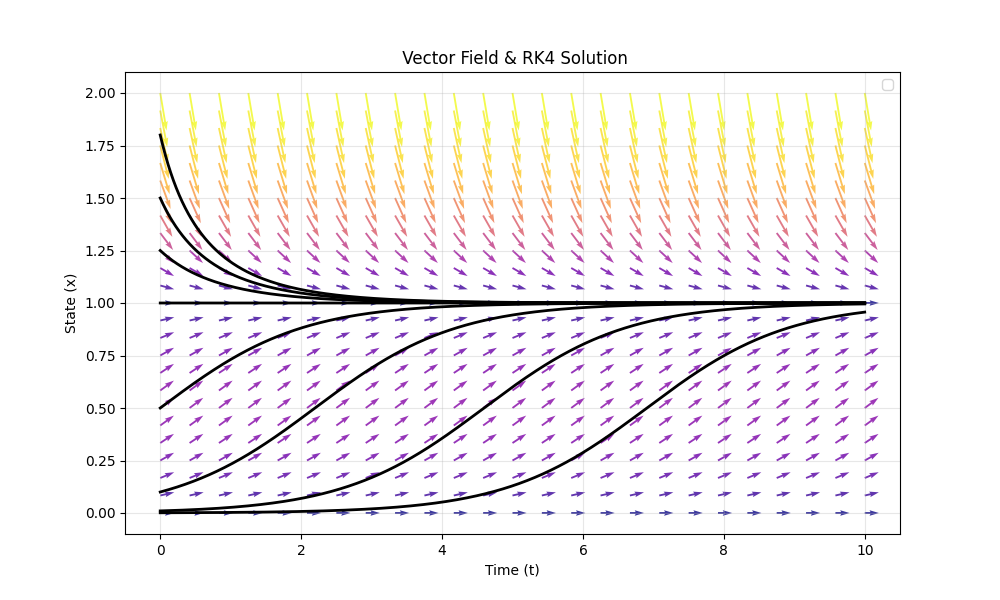
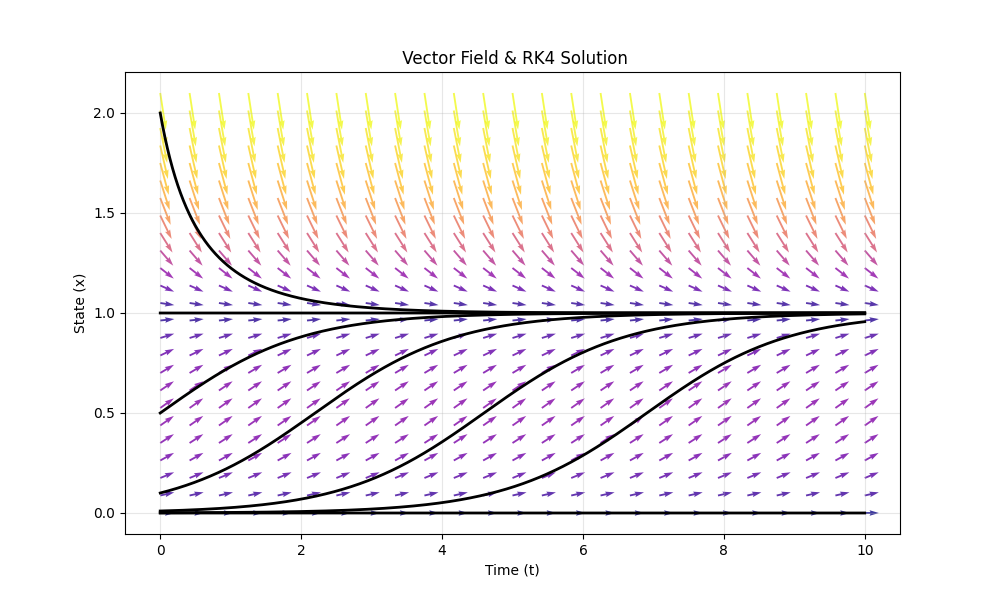
updated vector field code

diff --git a/Nonlinear-Dynamics-and-Chaos/Chapter 2/vector_field_and_solution.py b/Nonlinear-Dynamics-and-Chaos/Chapter 2/vector_field_and_solution.py
@@ -6,18 +6,18 @@ from RK4 import RK4
 dt = 0.001
 t = np.arange(0,10,dt)
 
-func = lambda x: x * (1 - x)
+func = lambda x: x*(1-x)
 
 N = len(t)
 results=[]
 
-for n in [0.001,0.01,0.1,0.5,1,1.25,1.5,1.8]:
+for n in [0,0.001,0.01,0.1,0.5,1,2]:
 
     results.append(RK4(func,n,dt,N))
 
 # 2. Setup the Grid
 t_grid = np.linspace(0, 10, 25)
-x_grid = np.linspace(0, 2, 25)
+x_grid = np.linspace(0, 2.1, 25)
 T, X = np.meshgrid(t_grid, x_grid)
 
 # 3. Compute Slopes
@@ -58,7 +58,6 @@ for j in range(0,len(results)):
 plt.xlabel('Time (t)')
 plt.ylabel('State (x)')
 plt.title(' Vector Field & RK4 Solution')
-plt.legend()
+
 plt.grid(True, alpha=0.3)
 plt.savefig(r'Nonlinear-Dynamics-and-Chaos\Chapter 2\plot.png')
-

diff --git a/Nonlinear-Dynamics-and-Chaos/Chapter 2/RK4.py b/Nonlinear-Dynamics-and-Chaos/Chapter 2/RK4.py
@@ -10,13 +10,15 @@ def RK4(f,x0,dt,N):
     x = np.zeros(N)
     x[0] = x0
 
+
     for i in range(0,N-1):
+
         k1 = f(x[i])*dt
         k2 = f(x[i]+0.5*k1)*dt
         k3 = f(x[i]+0.5*k2)*dt
         k4 = f(x[i]+k3)*dt
 
         x[i+1] = x[i] + (1/6)*(k1 + 2*k2 + 2*k3 + k4)
-
+    
     return x
 
